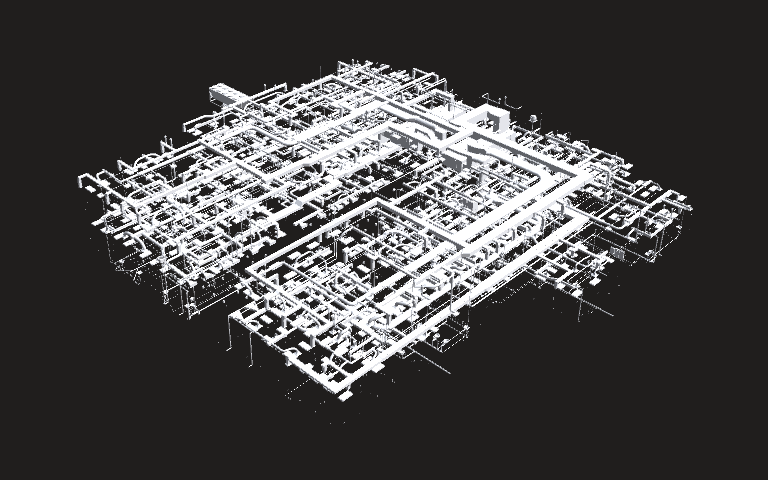
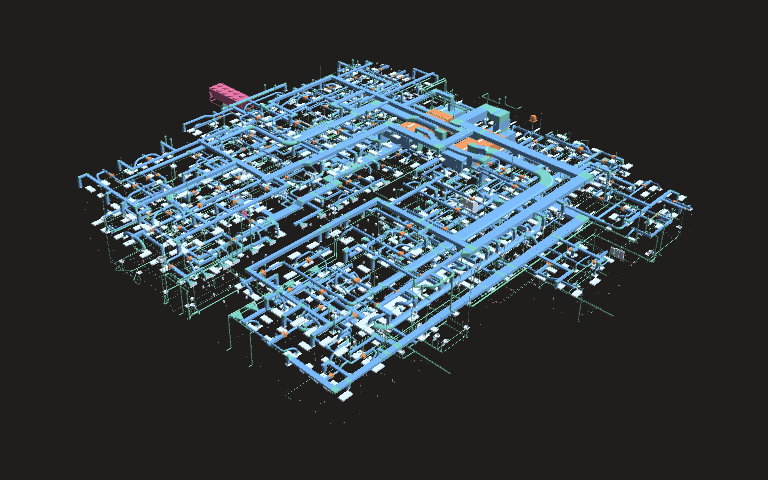
docs: show the large models in colour
The viewer screenshots are re-taken with class colours and the viewer
bullet says where colours come from.

Changed region(s): [[0.0938, 0.125, 0.9062, 0.8438]]

diff --git a/README.md b/README.md
@@ -41,7 +41,7 @@ Desktop viewer for IFC building models. Open an `.ifc` file, browse its spatial 
 - Shows instance and type property sets and quantity sets for the selected element. Instance values override type values.
 - Resolves units from the project's unit assignment when a property does not specify its own.
 - Filters the tree by element name, IFC type, GlobalId or tag; ⌘F (Ctrl+F on Windows and Linux) jumps to the filter. A click on the GlobalId copies it.
-- Opens the package in a Unity viewer: orbit, pan and zoom, click an element to highlight it and see its name, type, storey and GlobalId, press F to frame it.
+- Opens the package in a Unity viewer: orbit, pan and zoom, click an element to highlight it and see its name, type, storey and GlobalId, press F to frame it. Colours come from the file's surface styles; geometry without a style, which is most of an MEP model, is coloured by its IFC class.
 - Converts the geometry to binary glTF (`model.glb`) with IfcOpenShell's IfcConvert. Every mesh node is named by its IFC GlobalId, so a 3D viewer can map a click back to the element and its properties.
 - Saves every import as a `.plumb` package next to the source file. Opening the package skips IFC parsing entirely. When that folder is read-only, the model still opens and the app shows why it was not saved.
 - Imports in the background, showing each step of the pipeline with its time, and can be cancelled at any point. A cancelled or failed import never leaves a half-written package behind.
